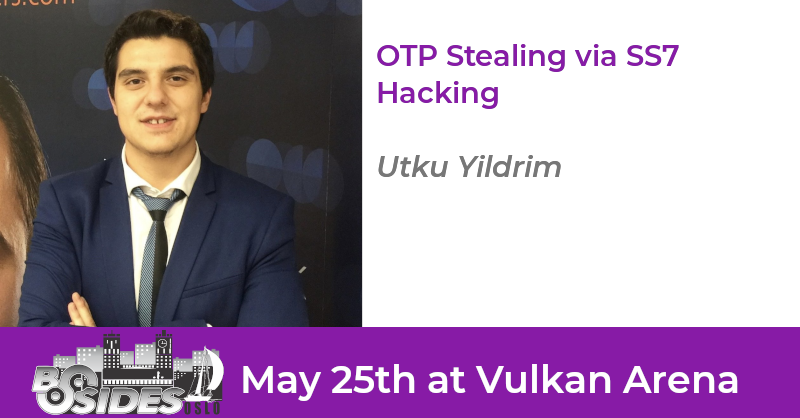
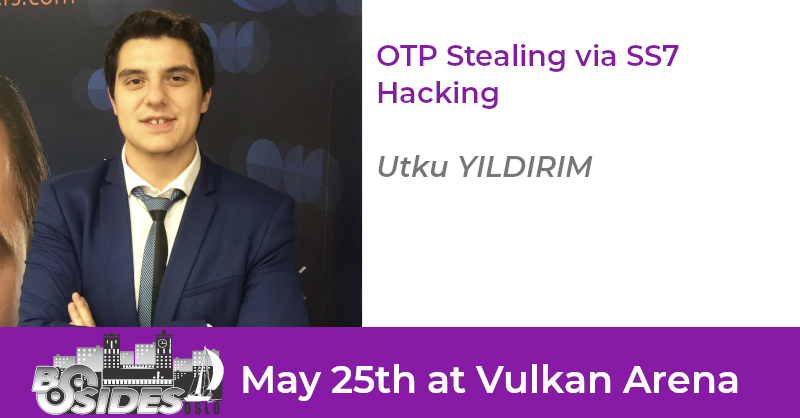
Fixed typo in name

diff --git a/_talks/OTPStealingviaSS7Hacking.md b/_talks/OTPStealingviaSS7Hacking.md
@@ -4,10 +4,10 @@ title: OTP Stealing via SS7 Hacking
 length: 20
 card: OTPStealingviaSS7Hacking.png
 speakers:
-- name: Utku Yildrim
+- name: Utku YILDIRIM
   image: UtkuYildrim.jpg
   bio: |
-    Utku Yildrim is Penetration Test Team Leader of Barikat Cyber Security. He is computer engineer and student MSc of Cyber Security. He has a lot of red team certificates such as OSCE, OSCP, OSWP and LPT.
+    Utku YILDIRIM is Penetration Test Team Leader of Barikat Cyber Security. He is computer engineer and student MSc of Cyber Security. He has a lot of red team certificates such as OSCE, OSCP, OSWP and LPT.
 
 ---
 OTP is very important for 2FA nowadays.  Normally an attacker sniffs and steal telecommunication data, if its under edge signal. In his method the attacker is able to suppress the LTE signal and downgrade it to EDGE and steal the telecommunication data.
